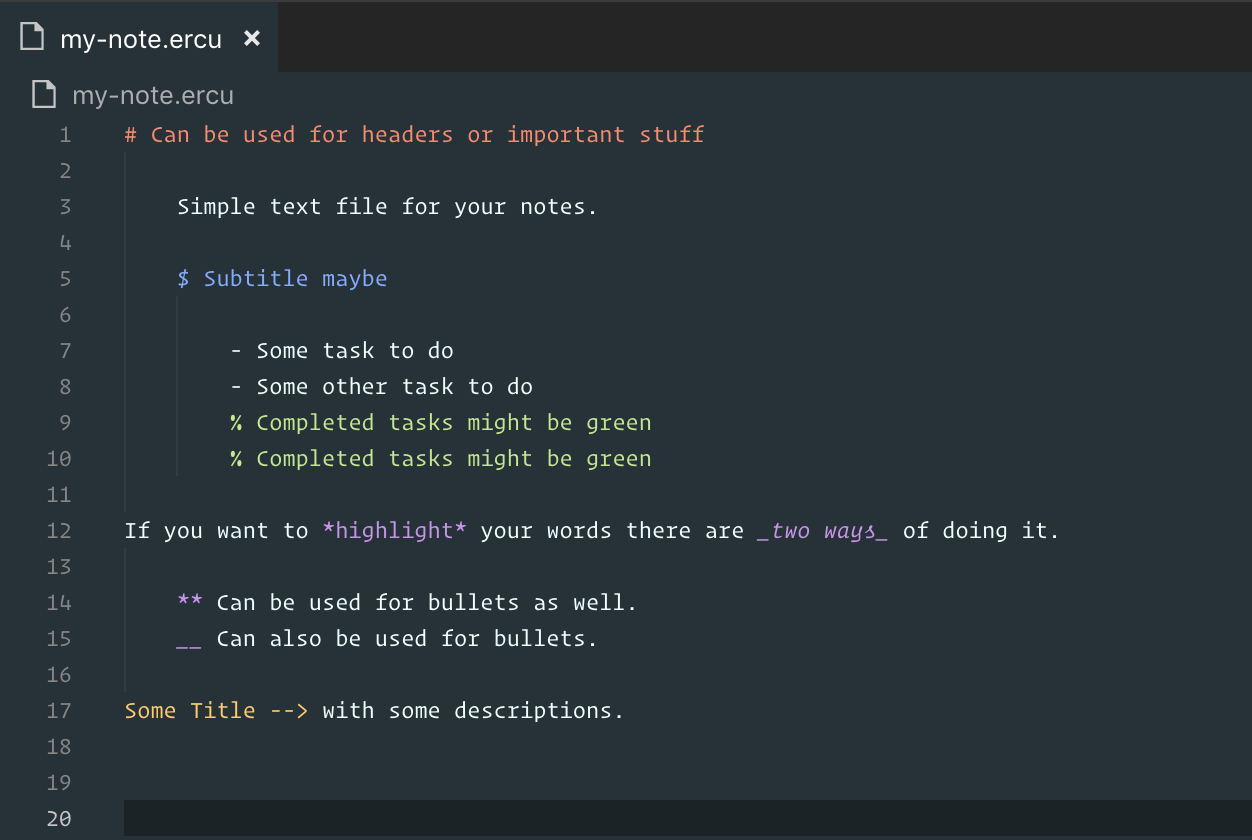
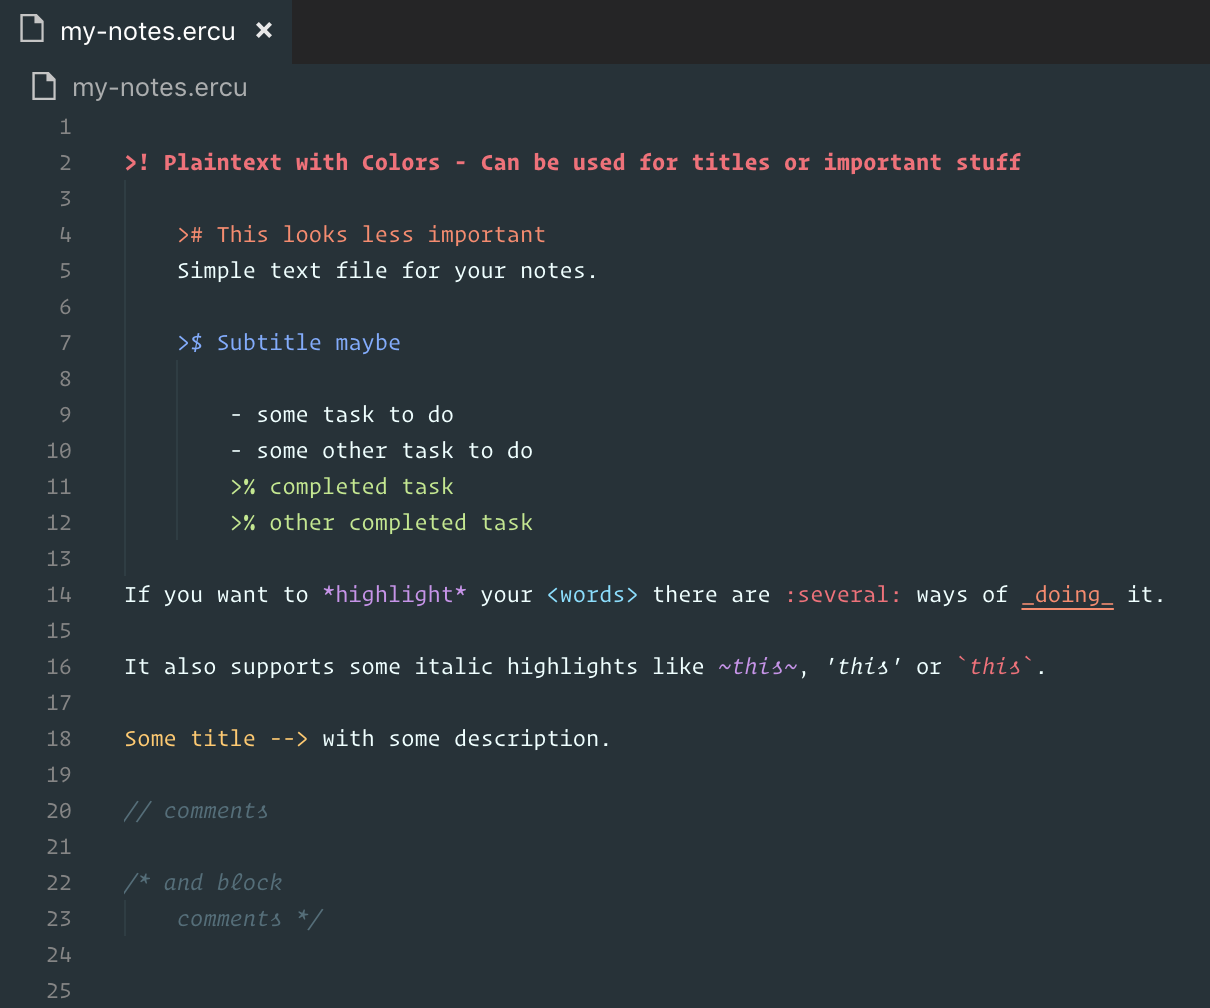
Adds documentation

diff --git a/README.md b/README.md
@@ -5,23 +5,5 @@ If you like to take notes in simple text files and all you need is just some col
 
 Please note that the colors will change depending on your VSCode theme. 
 
-| Syntax     |
-|------------|
-| >!         |
-| >#         |
-| >$         |
-| >%         |
-| --> text   |
-| \< text \> |
-| * text *   | 
-| ~ text ~   |
-| \_ text \_ |
-| 'text'     |
-| \` text \` |
-| : text :   |
-| // text    |
-| /* text */ |
-
-
 ### Example
 <img src="images/example.png" width="50%">
